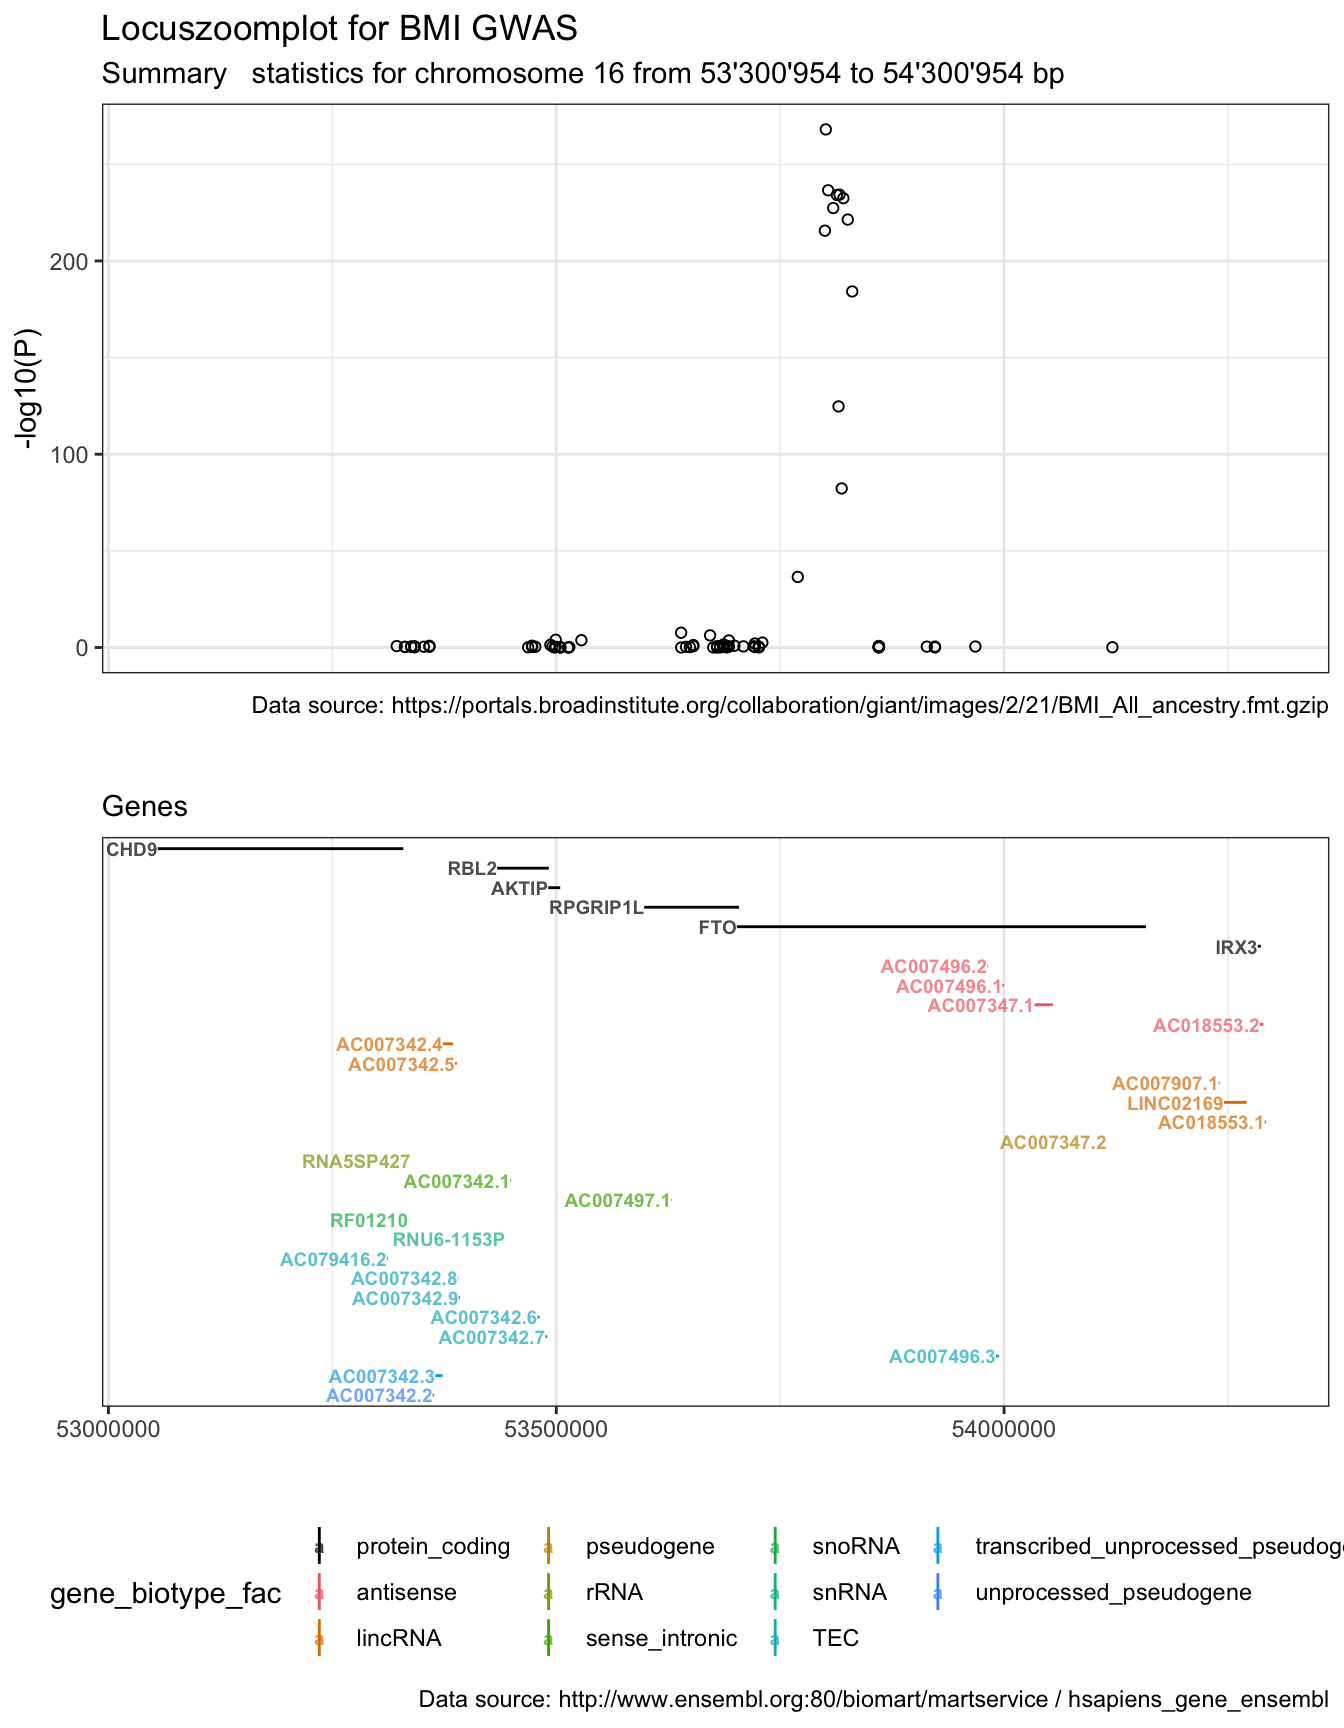
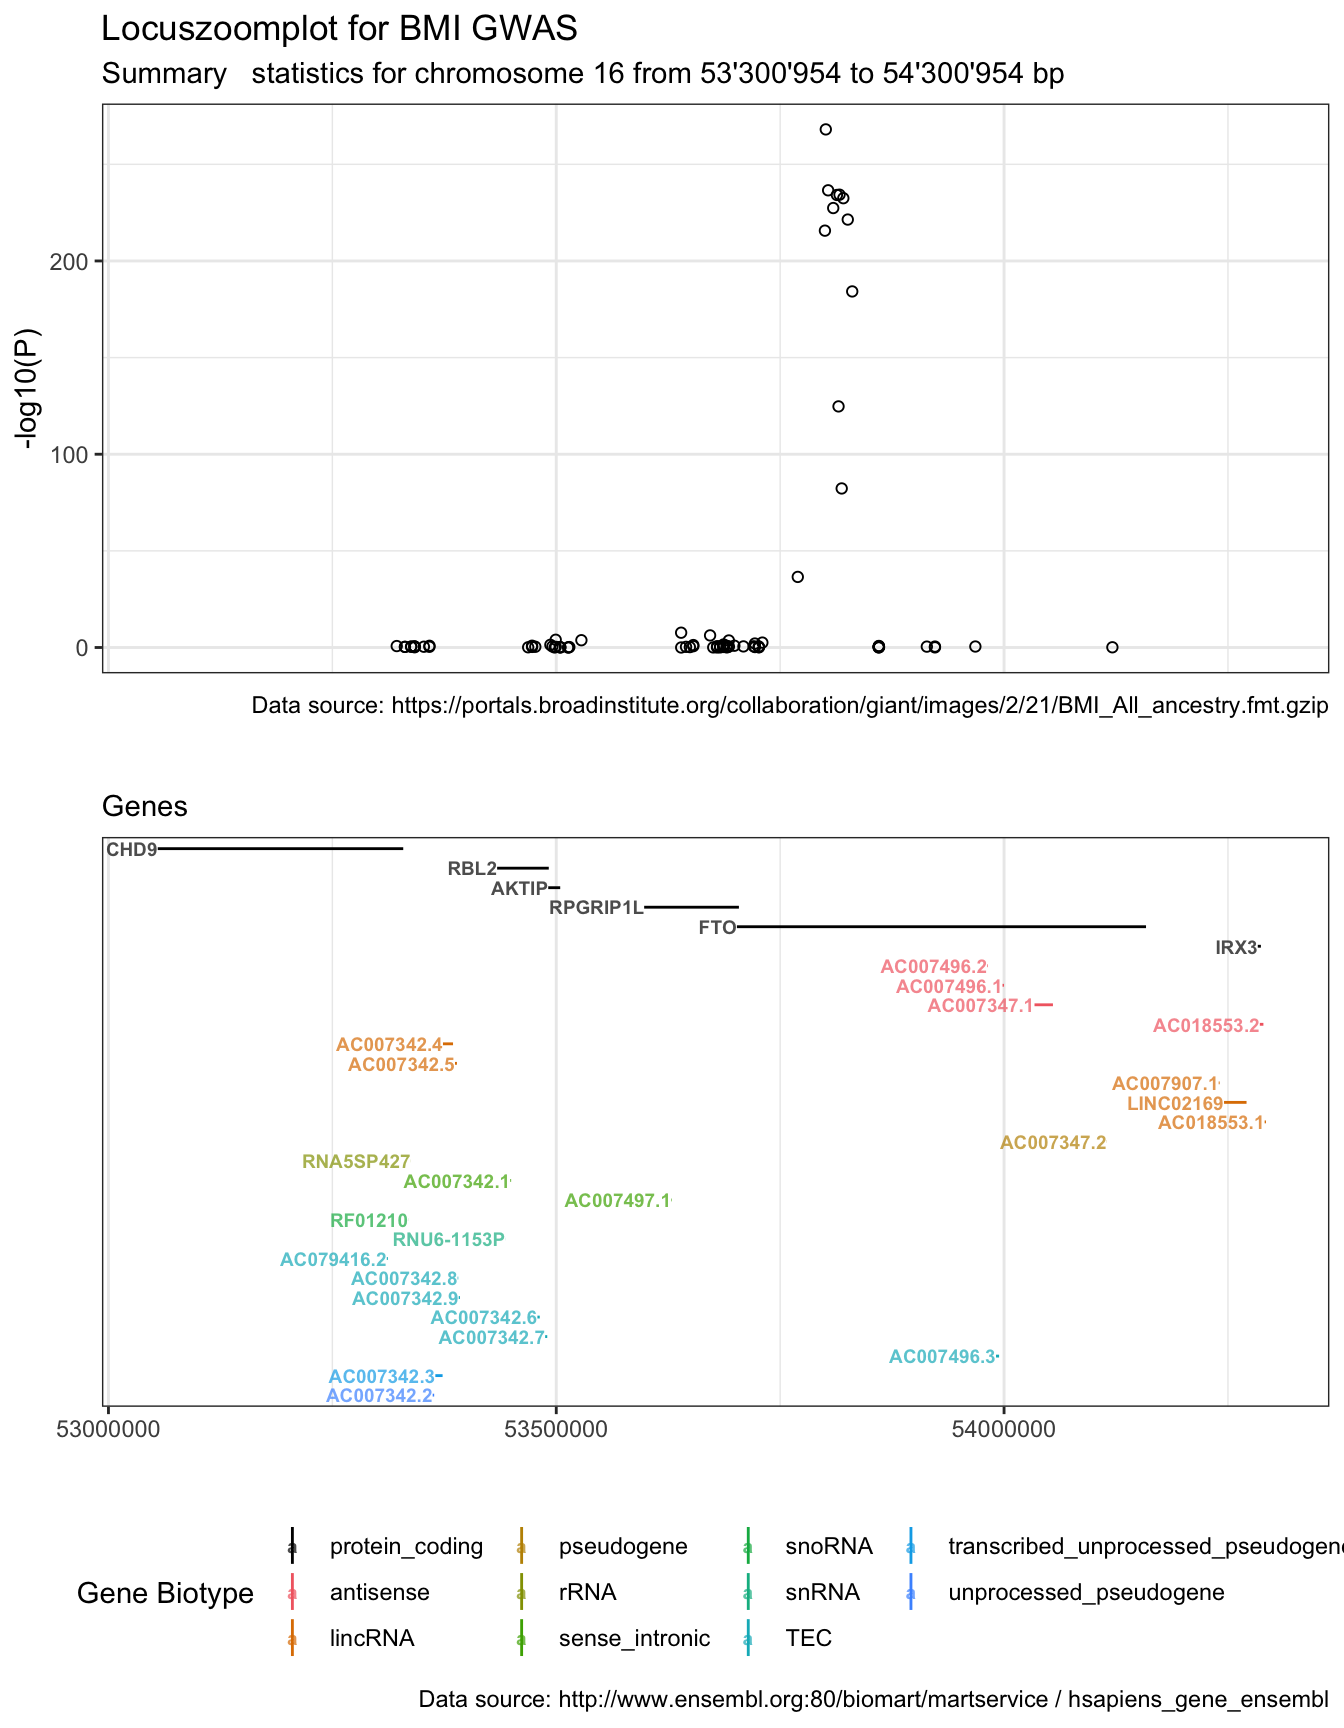
last read through + change color palette

Changed region(s): [[0.0312, 0.875, 1.0, 0.9688]]

diff --git a/2018/07/30/locuszoomplot/index.html b/2018/07/30/locuszoomplot/index.html
@@ -621,8 +621,7 @@ p2 &lt;- ggplot(data = out.bm.genes.region) +
   coord_flip() + ylab(&quot;&quot;) +
   ylim(plot.range) + 
   geom_text(aes(x = external_gene_name, y = start_position, label = external_gene_name, colour = gene_biotype_fac), fontface = 2, alpha = I(0.7), hjust = &quot;right&quot;, size= 2.5) + 
-  labs(title = &quot;&quot;, subtitle = paste(&quot;Genes&quot;), caption = paste(&quot;Data source:&quot;, gene.ensembl@host, &quot;/&quot;, gene.ensembl@dataset)) +
-  scale_colour_discrete(name=&quot;Gene Biotype&quot;) +
+  labs(title = &quot;&quot;, subtitle = paste(&quot;Genes&quot;), caption = paste(&quot;Data source:&quot;, gene.ensembl@host, &quot;/&quot;, gene.ensembl@dataset), color = &quot;Gene Biotype&quot;) +
   theme(axis.title.y=element_blank(),
         axis.text.y=element_blank(),
         axis.ticks.y=element_blank(), 
@@ -630,10 +629,8 @@ p2 &lt;- ggplot(data = out.bm.genes.region) +
         legend.position=&quot;bottom&quot;, 
         panel.grid.major.y = element_blank()) + 
   expand_limits(y=c(-1, 1)) +
-  scale_color_manual(values = c(&quot;black&quot;, metafolio::gg_color_hue(nlevels(out.bm.genes.region$gene_biotype_fac)-1)))</code></pre>
-<pre><code>## Scale for &#39;colour&#39; is already present. Adding another scale for
-## &#39;colour&#39;, which will replace the existing scale.</code></pre>
-<pre class="r"><code>  ## hack to have 11 colors, but probably merging some gene biotype groups could make sense too. 
+  scale_color_manual(values = c(&quot;black&quot;, metafolio::gg_color_hue(nlevels(out.bm.genes.region$gene_biotype_fac)-1)))
+  ## hack to have 11 colors, but probably merging some gene biotype groups could make sense too. 
   ## consider colorblindr::palette_OkabeIto_black
 print(p2)</code></pre>
 <p><img src="/post/2018-07-04-plotting-local-genomic-association-results-in-r_files/figure-html/plot-genes-pretty-1.png" width="672" /></p>
